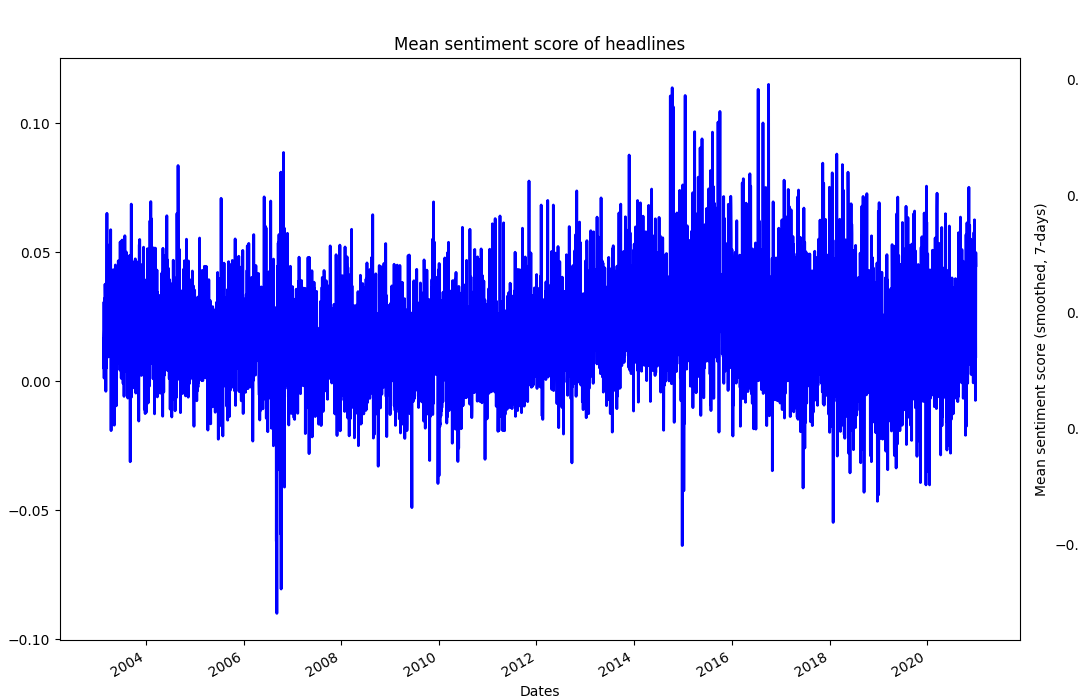
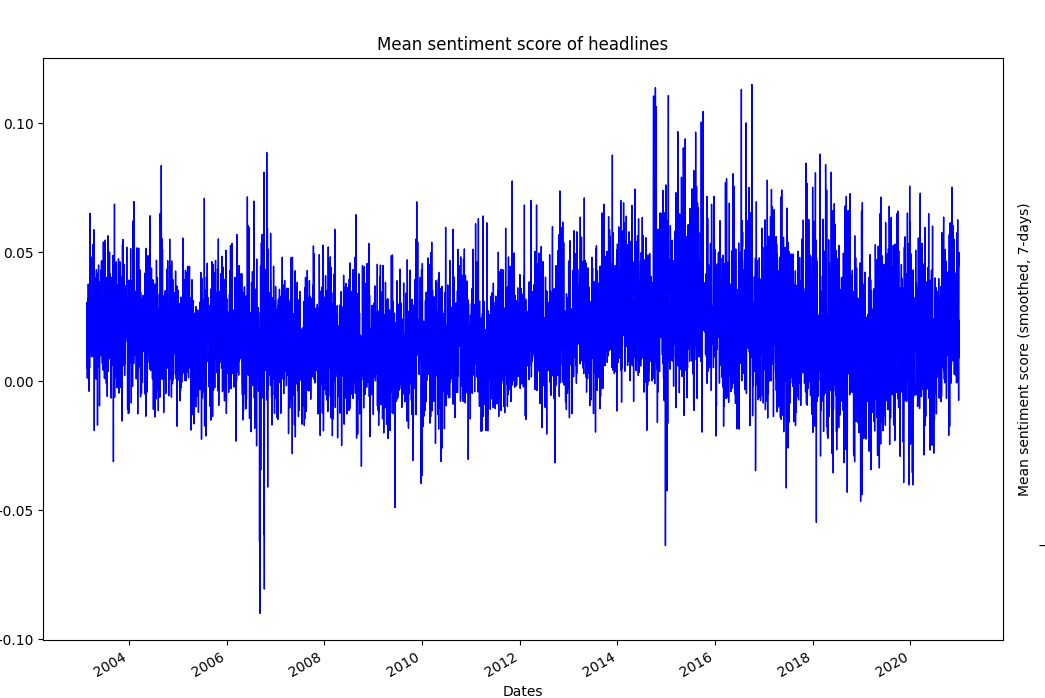
changes

diff --git a/assignment_3/sentiment.py b/assignment_3/sentiment.py
@@ -114,8 +114,8 @@ def plot_sentiment(df):
 
     # Defining axes_1 plot
     axes_1.plot(df["date"], df["sentiment_score"], "b", linewidth = 2)
-    axes_1.plot(df["date"], df["sentiment_score_weekly_smooth"], "g", linewidth = 2)
-    axes_1.plot(df["date"], df["sentiment_score_monthly_smooth"], "r", linewidth = 2)
+    axes_1.plot(df["date"], df["sentiment_score_weekly_smooth"], "g", linewidth = 1)
+    axes_1.plot(df["date"], df["sentiment_score_monthly_smooth"], "r", linewidth = 1)
     axes_1.set_title("Mean sentiment score of headlines")
     axes_1.set_xlabel("Dates")
     axes_1.set_ylabel("Mean sentiment scores")
@@ -126,21 +126,21 @@ def plot_sentiment(df):
     axes_2.set_title("Mean sentiment score of headlines")
     axes_2.set_ylabel("Mean sentiment score")
     axes_2.set_xlabel("Dates")
-    axes_2.plot(df["date"], df["sentiment_score"], "b", linewidth = 2)
+    axes_2.plot(df["date"], df["sentiment_score"], "b", linewidth = 1)
     axes_2.xaxis_date() # Tell matplotlib to interpret the x-axis values as dates
 
     # Defining axes_3 plot
     axes_3.set_title("Mean sentiment score of headlines \n (smoothed, 7-day window)")
     axes_3.set_ylabel("Mean sentiment score (smoothed, 7-days)")
     axes_3.set_xlabel("Dates")
-    axes_3.plot(df["date"], df["sentiment_score_weekly_smooth"], "g", linewidth = 2)
+    axes_3.plot(df["date"], df["sentiment_score_weekly_smooth"], "g", linewidth = 1)
     axes_3.xaxis_date() # Tell matplotlib to interpret the x-axis values as dates
 
     # Defining axes_4 plot
     axes_4.set_title("Mean sentiment score of headlines \n (smoothed, 30-day window)")
     axes_4.set_ylabel("Mean sentiment score (smoothed, 30-days)")
     axes_4.set_xlabel("Dates")
-    axes_4.plot(df["date"], df["sentiment_score_monthly_smooth"], "r", linewidth = 2)
+    axes_4.plot(df["date"], df["sentiment_score_monthly_smooth"], "r", linewidth = 1)
     axes_4.xaxis_date() # Tell matplotlib to interpret the x-axis values as dates
 
     plt.tight_layout() # So that the font doesn't overlap
@@ -151,19 +151,19 @@ def plot_sentiment(df):
         os.makedirs("out")
         
     # Saving plot (all combined)
-    plt.savefig(os.path.join("out", "daily_sentiment_scores_combined.png"))
+    plt.savefig(os.path.join("out", "daily_sentiment_scores_by_side.png"))
     
     # Saving subplot 1 (showing sentiment scores daily and smoothed over 7 and 30 days)
     extent1 = axes_1.get_window_extent().transformed(fig.dpi_scale_trans.inverted())
-    fig.savefig(os.path.join("out", "daily_sentiment_scores.png"), bbox_inches=extent1.expanded(1.125, 1.2))
+    fig.savefig(os.path.join("out", "daily_sentiment_scores_combined.png"), bbox_inches=extent1.expanded(1.125, 1.2))
     
     # Saving subplot 2 (showing sentiment scores daily)
     extent2 = axes_2.get_window_extent().transformed(fig.dpi_scale_trans.inverted())
-    fig.savefig(os.path.join("out", "daily_sentiment_scores.png"), bbox_inches=extent2.expanded(1.125, 1.2))
+    fig.savefig(os.path.join("out", "daily_sentiment_scores.png"), bbox_inches=extent2.expanded(1.09, 1.2))
     
     # Saving subplot 3 (showing sentiment scores daily, smoothed over a 7-day period)
     extent3 = axes_3.get_window_extent().transformed(fig.dpi_scale_trans.inverted())
-    fig.savefig(os.path.join("out", "daily_sentiment_scores_weekly_smooth.png"), bbox_inches=extent3.expanded(1.125, 1.2))
+    fig.savefig(os.path.join("out", "daily_sentiment_scores_weekly_smooth.png"), bbox_inches=extent3.expanded(1.1, 1.2))
         
     # Saving subplot 4 (showing sentiment scores daily, smoothed over a 30-day period)
     extent4 = axes_4.get_window_extent().transformed(fig.dpi_scale_trans.inverted())
